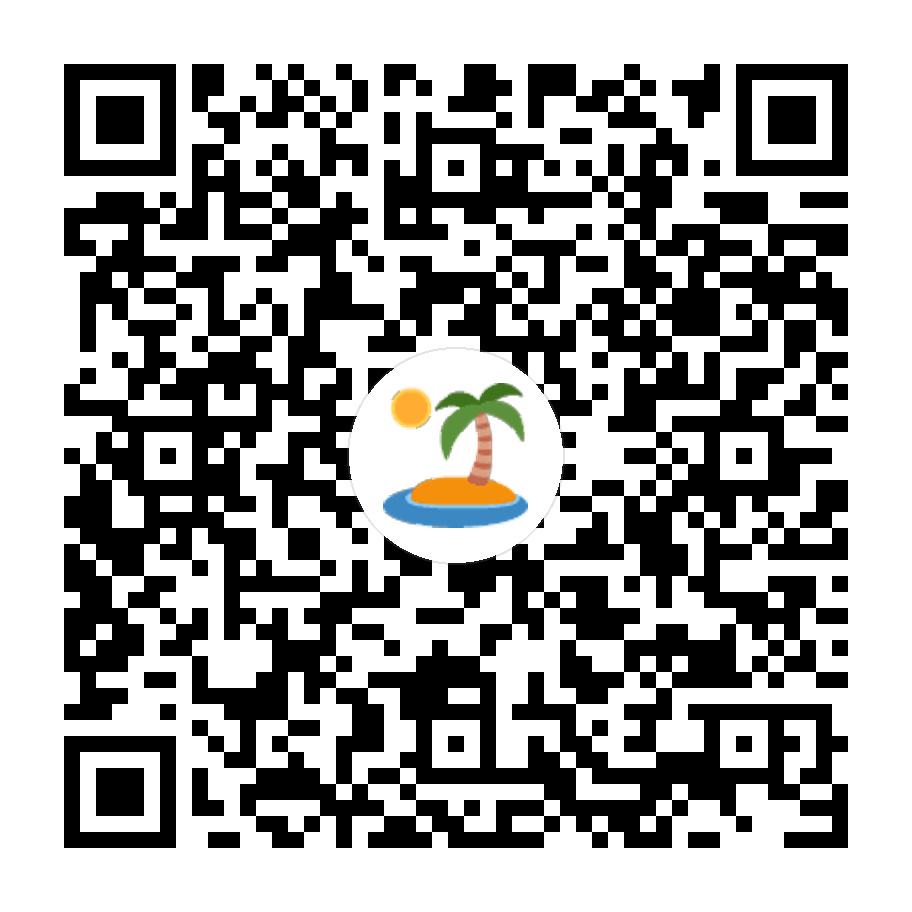
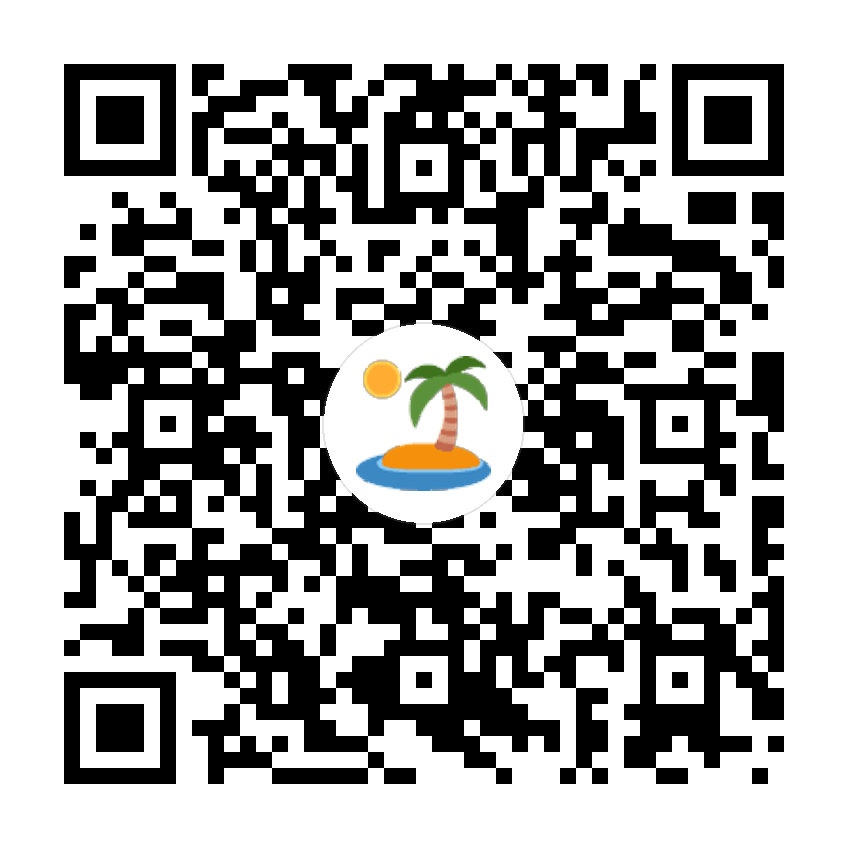
Harden deep link parsing for App Clip and regenerate path-based QR codes

diff --git a/ios/AppClip/ClipInvocationModel.swift b/ios/AppClip/ClipInvocationModel.swift
@@ -158,23 +158,51 @@ final class ClipInvocationModel: ObservableObject {
     let normalizedPath = url.path.hasSuffix("/") && url.path.count > 1
       ? String(url.path.dropLast())
       : url.path
-    guard normalizedPath == invitePath else {
+    let isInviteRoot = normalizedPath == invitePath
+    let isInviteSubpath = normalizedPath.hasPrefix("\(invitePath)/")
+    guard isInviteRoot || isInviteSubpath else {
       return nil
     }
 
-    guard
-      let components = URLComponents(url: url, resolvingAgainstBaseURL: false),
-      let token = components.queryItems?.first(where: { $0.name == "t" })?.value,
-      !token.isEmpty
-    else {
+    guard let components = URLComponents(url: url, resolvingAgainstBaseURL: false) else {
       return nil
     }
 
-    let location = components.queryItems?
-      .first(where: { $0.name == "location" })?
+    var token = components.queryItems?.first(where: {
+      let key = $0.name.lowercased()
+      return key == "t" || key == "token"
+    })?.value?.trimmingCharacters(in: .whitespacesAndNewlines)
+
+    var location = components.queryItems?
+      .first(where: {
+        let key = $0.name.lowercased()
+        return key == "location" || key == "loc"
+      })?
       .value?
       .trimmingCharacters(in: .whitespacesAndNewlines)
       .lowercased()
+
+    // Fallback: support path-based format /i/{token}/{location?}
+    if (token == nil || token?.isEmpty == true), isInviteSubpath {
+      let inviteSegments = invitePath.split(separator: "/").filter { !$0.isEmpty }.count
+      let tailSegments = url.pathComponents
+        .filter { $0 != "/" }
+        .dropFirst(inviteSegments)
+      if let first = tailSegments.first {
+        token = String(first).removingPercentEncoding?.trimmingCharacters(in: .whitespacesAndNewlines) ?? String(first)
+      }
+      if (location == nil || location?.isEmpty == true), tailSegments.count > 1 {
+        let second = tailSegments[tailSegments.index(tailSegments.startIndex, offsetBy: 1)]
+        location =
+          (String(second).removingPercentEncoding ?? String(second))
+          .trimmingCharacters(in: .whitespacesAndNewlines)
+          .lowercased()
+      }
+    }
+
+    guard let token, !token.isEmpty else {
+      return nil
+    }
 
     return (token, (location?.isEmpty ?? true) ? nil : location)
   }

diff --git a/lib/core/linking/link_service.dart b/lib/core/linking/link_service.dart
@@ -206,16 +206,37 @@ class LinkService {
     }
 
     final normalizedPath = _normalizePath(uri.path);
-    if (normalizedPath != _invitePath) {
+    final isInviteRoot = normalizedPath == _invitePath;
+    final isInviteSubpath = normalizedPath.startsWith('$_invitePath/');
+    if (!isInviteRoot && !isInviteSubpath) {
       return null;
     }
 
-    final token = uri.queryParameters['t']?.trim();
+    String? token =
+        (uri.queryParameters['t'] ?? uri.queryParameters['token'])?.trim();
+    String? location =
+        (uri.queryParameters['location'] ?? uri.queryParameters['loc'])
+            ?.trim()
+            .toLowerCase();
+
+    // Fallback: support path-based format /i/{token}/{location?}
+    if ((token == null || token.isEmpty) && isInviteSubpath) {
+      final inviteSegments = _invitePath
+          .split('/')
+          .where((segment) => segment.isNotEmpty)
+          .length;
+      final tailSegments = uri.pathSegments.skip(inviteSegments).toList();
+      if (tailSegments.isNotEmpty) {
+        token = Uri.decodeComponent(tailSegments.first).trim();
+      }
+      if ((location == null || location.isEmpty) && tailSegments.length > 1) {
+        location = Uri.decodeComponent(tailSegments[1]).trim().toLowerCase();
+      }
+    }
+
     if (token == null || token.isEmpty) {
       return null;
     }
-
-    final location = uri.queryParameters['location']?.trim().toLowerCase();
 
     return _ParsedInviteLink(
       token: token,

diff --git a/vercel-aasa/public/i/index.html b/vercel-aasa/public/i/index.html
@@ -20,16 +20,29 @@
     <div class="box">
       <p><strong>Parametri link rilevati</strong></p>
       <p id="params">Nessun parametro.</p>
+      <p style="margin-top:12px;"><strong>URL ricevuta</strong></p>
+      <p id="url"><code>-</code></p>
     </div>
   </main>
   <script>
     const qs = new URLSearchParams(window.location.search);
-    const t = qs.get('t');
-    const location = qs.get('location');
+    let t = qs.get('t') || qs.get('token');
+    let location = qs.get('location') || qs.get('loc');
+    if (!t) {
+      const seg = window.location.pathname.split('/').filter(Boolean);
+      // /i/{token}/{location?}
+      if (seg.length >= 2 && seg[0] === 'i') {
+        t = decodeURIComponent(seg[1]);
+      }
+      if (!location && seg.length >= 3 && seg[0] === 'i') {
+        location = decodeURIComponent(seg[2]);
+      }
+    }
     const parts = [];
     if (t) parts.push('t=' + t);
     if (location) parts.push('location=' + location);
     document.getElementById('params').textContent = parts.length ? parts.join(' | ') : 'Nessun parametro.';
+    document.getElementById('url').textContent = window.location.href;
   </script>
 </body>
 </html>

diff --git a/ios/Runner/AppDelegate.swift b/ios/Runner/AppDelegate.swift
@@ -140,7 +140,10 @@ import UIKit
       return
     }
 
-    guard url.path == invitePath || url.path == "\(invitePath)/" else {
+    let path = url.path
+    let isInviteRoot = (path == invitePath || path == "\(invitePath)/")
+    let isInviteSubpath = path.hasPrefix("\(invitePath)/")
+    guard isInviteRoot || isInviteSubpath else {
       return
     }
 

diff --git a/tool/generate_invite_qr.py b/tool/generate_invite_qr.py
@@ -55,10 +55,22 @@ def parse_args() -> argparse.Namespace:
         default="assets/qr",
         help="Output directory",
     )
+    parser.add_argument(
+        "--url-format",
+        choices=("path", "query"),
+        default="path",
+        help="Invite URL format. 'path' => /i/{token}/{location?}, 'query' => /i?t=...&location=... (default: path)",
+    )
     return parser.parse_args()
 
 
-def build_url(domain: str, token: str, location: str | None = None) -> str:
+def build_url(domain: str, token: str, location: str | None = None, *, url_format: str = "path") -> str:
+    if url_format == "path":
+        base = f"https://{domain}/i/{urllib.parse.quote(token, safe='')}"
+        if location:
+            base += f"/{urllib.parse.quote(location, safe='')}"
+        return base
+
     params = {"t": token}
     if location:
         params["location"] = location
@@ -128,8 +140,13 @@ def main() -> int:
     out_dir = pathlib.Path(args.out_dir)
     cache_dir = out_dir / ".emoji-cache"
 
-    normal_url = build_url(args.domain, args.normal_token)
-    bibbione_url = build_url(args.domain, args.bibbione_token, "bibbione")
+    normal_url = build_url(args.domain, args.normal_token, url_format=args.url_format)
+    bibbione_url = build_url(
+        args.domain,
+        args.bibbione_token,
+        "bibbione",
+        url_format=args.url_format,
+    )
 
     normal_file = out_dir / "qr-normal-dog.png"
     bibbione_file = out_dir / "qr-bibbione-island.png"
